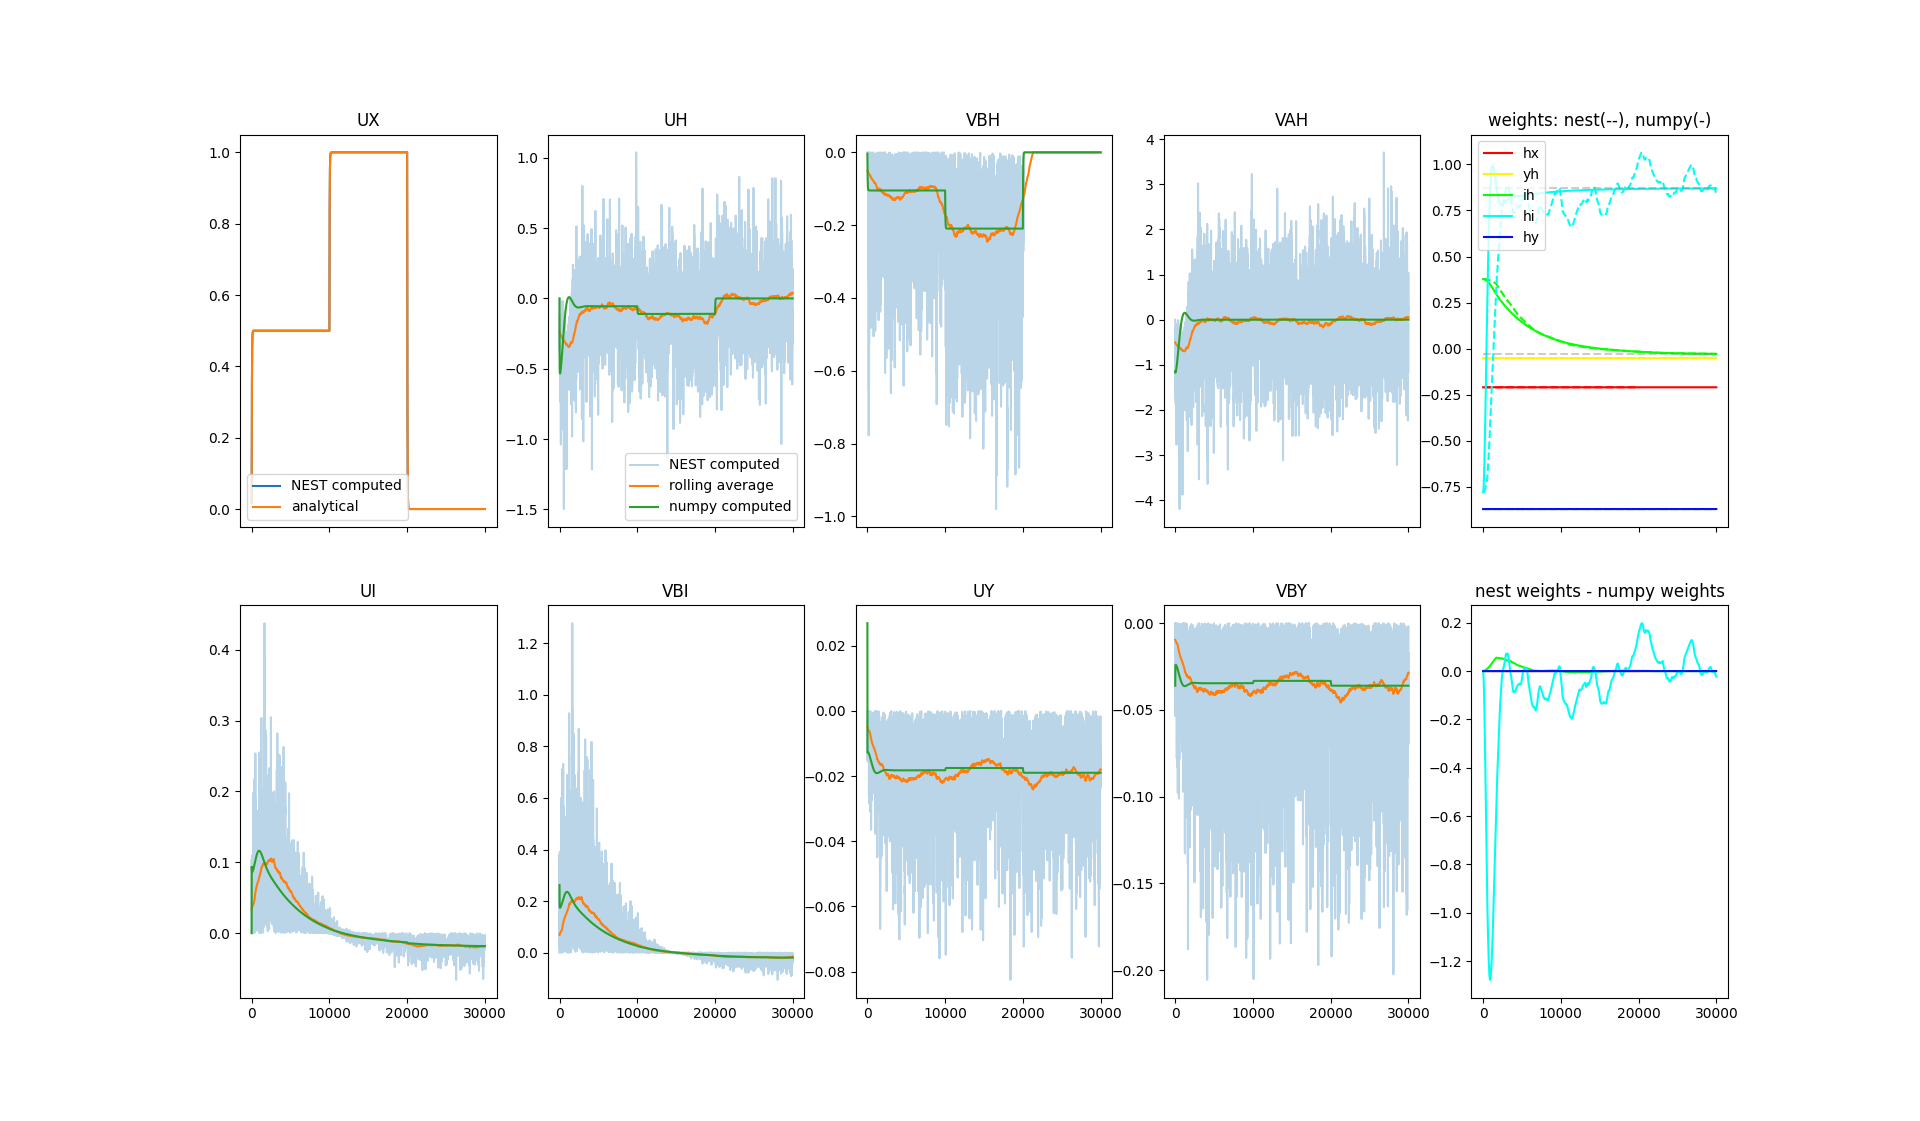
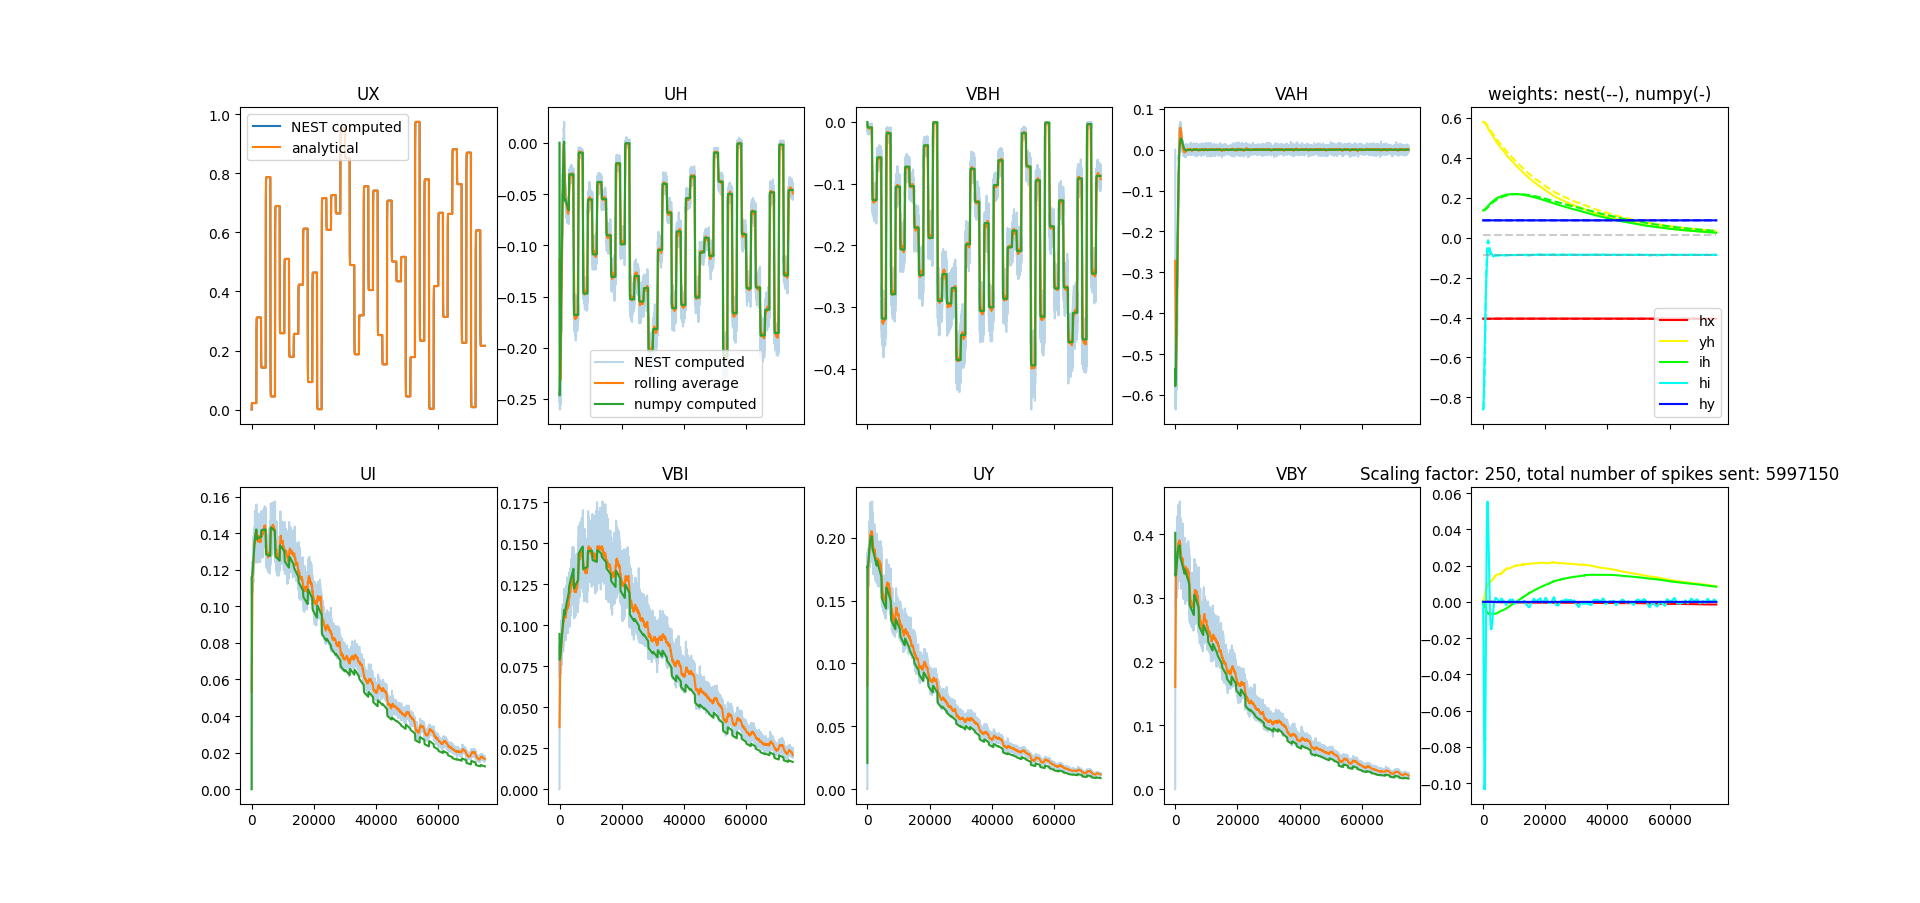
Updated graphics

diff --git a/pyramidal_microcircuit/tests/test13_simplest_network_spiking.py b/pyramidal_microcircuit/tests/test13_simplest_network_spiking.py
@@ -16,7 +16,6 @@ imgdir, datadir = setup_simulation()
 sim_params["record_interval"] = 0.1
 sim_params["noise"] = False
 sim_params["dims"] = [1, 1, 1]
-sim_params["delta_t"] = delta_t
 sim_params["teacher"] = False
 
 setup_nest(delta_t, sim_params["threads"], sim_params["record_interval"], datadir)
@@ -26,7 +25,7 @@ cmap = plt.cm.get_cmap('hsv', 7)
 styles = ["solid", "dotted", "dashdot", "dashed"]
 
 amps = [0.5, 1, 0]
-n_runs = 6
+n_runs = 50
 SIM_TIME = 150
 SIM_TIME_TOTAL = n_runs * SIM_TIME
 
@@ -34,7 +33,6 @@ SIM_TIME_TOTAL = n_runs * SIM_TIME
 # syn_params["ih"]["eta"] *= 0
 # syn_params["yh"]["eta"] *= 0
 # syn_params["hx"]["eta"] *= 0
-
 
 
 math_net = NumpyNetwork(sim_params, neuron_params, syn_params)
@@ -63,7 +61,12 @@ syn_params["hx"]["eta"] /= weight_scale**3 * 330
 syn_params["yh"]["eta"] /= weight_scale**3 * 330
 
 
+print({"hi": syn_params["hi"]["eta"],
+       "ih": syn_params["ih"]["eta"],
+       "hx": syn_params["hx"]["eta"],
+       "yh": syn_params["yh"]["eta"], })
 
+sys.exit()
 
 nest_net = NestNetwork(sim_params, neuron_params, syn_params)
 
@@ -99,7 +102,7 @@ for i in range(n_runs):
     # print(f"simulating run: {i}")
     # amp = np.random.random(sim_params["dims"][0])
     # for amp in amps:
-    amp = [amps[i % 3]]
+    amp = [np.random.random()]
     nest_net.set_input(amp)
     nest_net.simulate(SIM_TIME)
 

diff --git a/pyramidal_microcircuit/tests/test12_transfer_function.py b/pyramidal_microcircuit/tests/test12_transfer_function.py
@@ -28,7 +28,7 @@ U_x_record = []
 V_bh_record = []
 
 sim_time = 500
-amps = [2, 4, 0]
+amps = np.random.random(5) * 2 - 1
 start, stop, N = 0, 10, 11
 spike_multipliers = np.logspace(start, stop, N)
 exponents = np.linspace(start, stop, N)
@@ -64,7 +64,7 @@ for i in range(5):
     mult = i * 2
     axes[i+1].plot(V_dend[:, mult])
     axes[i+1].plot(V_bh_record)
-    axes[i+1].set_title(f"factor: 10^{exponents[mult]:.1f}\n n_spikes: {total_spikes[mult]}")
+    axes[i+1].set_title(f"factor: 10^{exponents[mult]:.1f}\n spikes: {total_spikes[mult]} ({total_spikes[mult]/(sim_time * len(amps)/1000)}Hz)")
 # axes[1].plot(rolling_avg(V_bh_record_spiking, size=2500))
 
 axes[6].plot(spike_multipliers, total_spikes)

diff --git a/pyramidal_microcircuit/params.py b/pyramidal_microcircuit/params.py
@@ -18,7 +18,7 @@ sim_params = {
     "noise": True,  # apply noise to membrane potentials
     "sigma": sigma,
     "noise_factor": np.sqrt(delta_t) * sigma,  # constant noise factor for numpy simulations
-    "dims": [10, 8, 6],  # network dimensions, i.e. neurons per layer
+    "dims": [6, 4, 3],  # network dimensions, i.e. neurons per layer
     "recording_backend": "ascii", # Backend for NEST multimeter recordings
     "teacher": True, # If True, teaching current is injected into output layer 
 }
